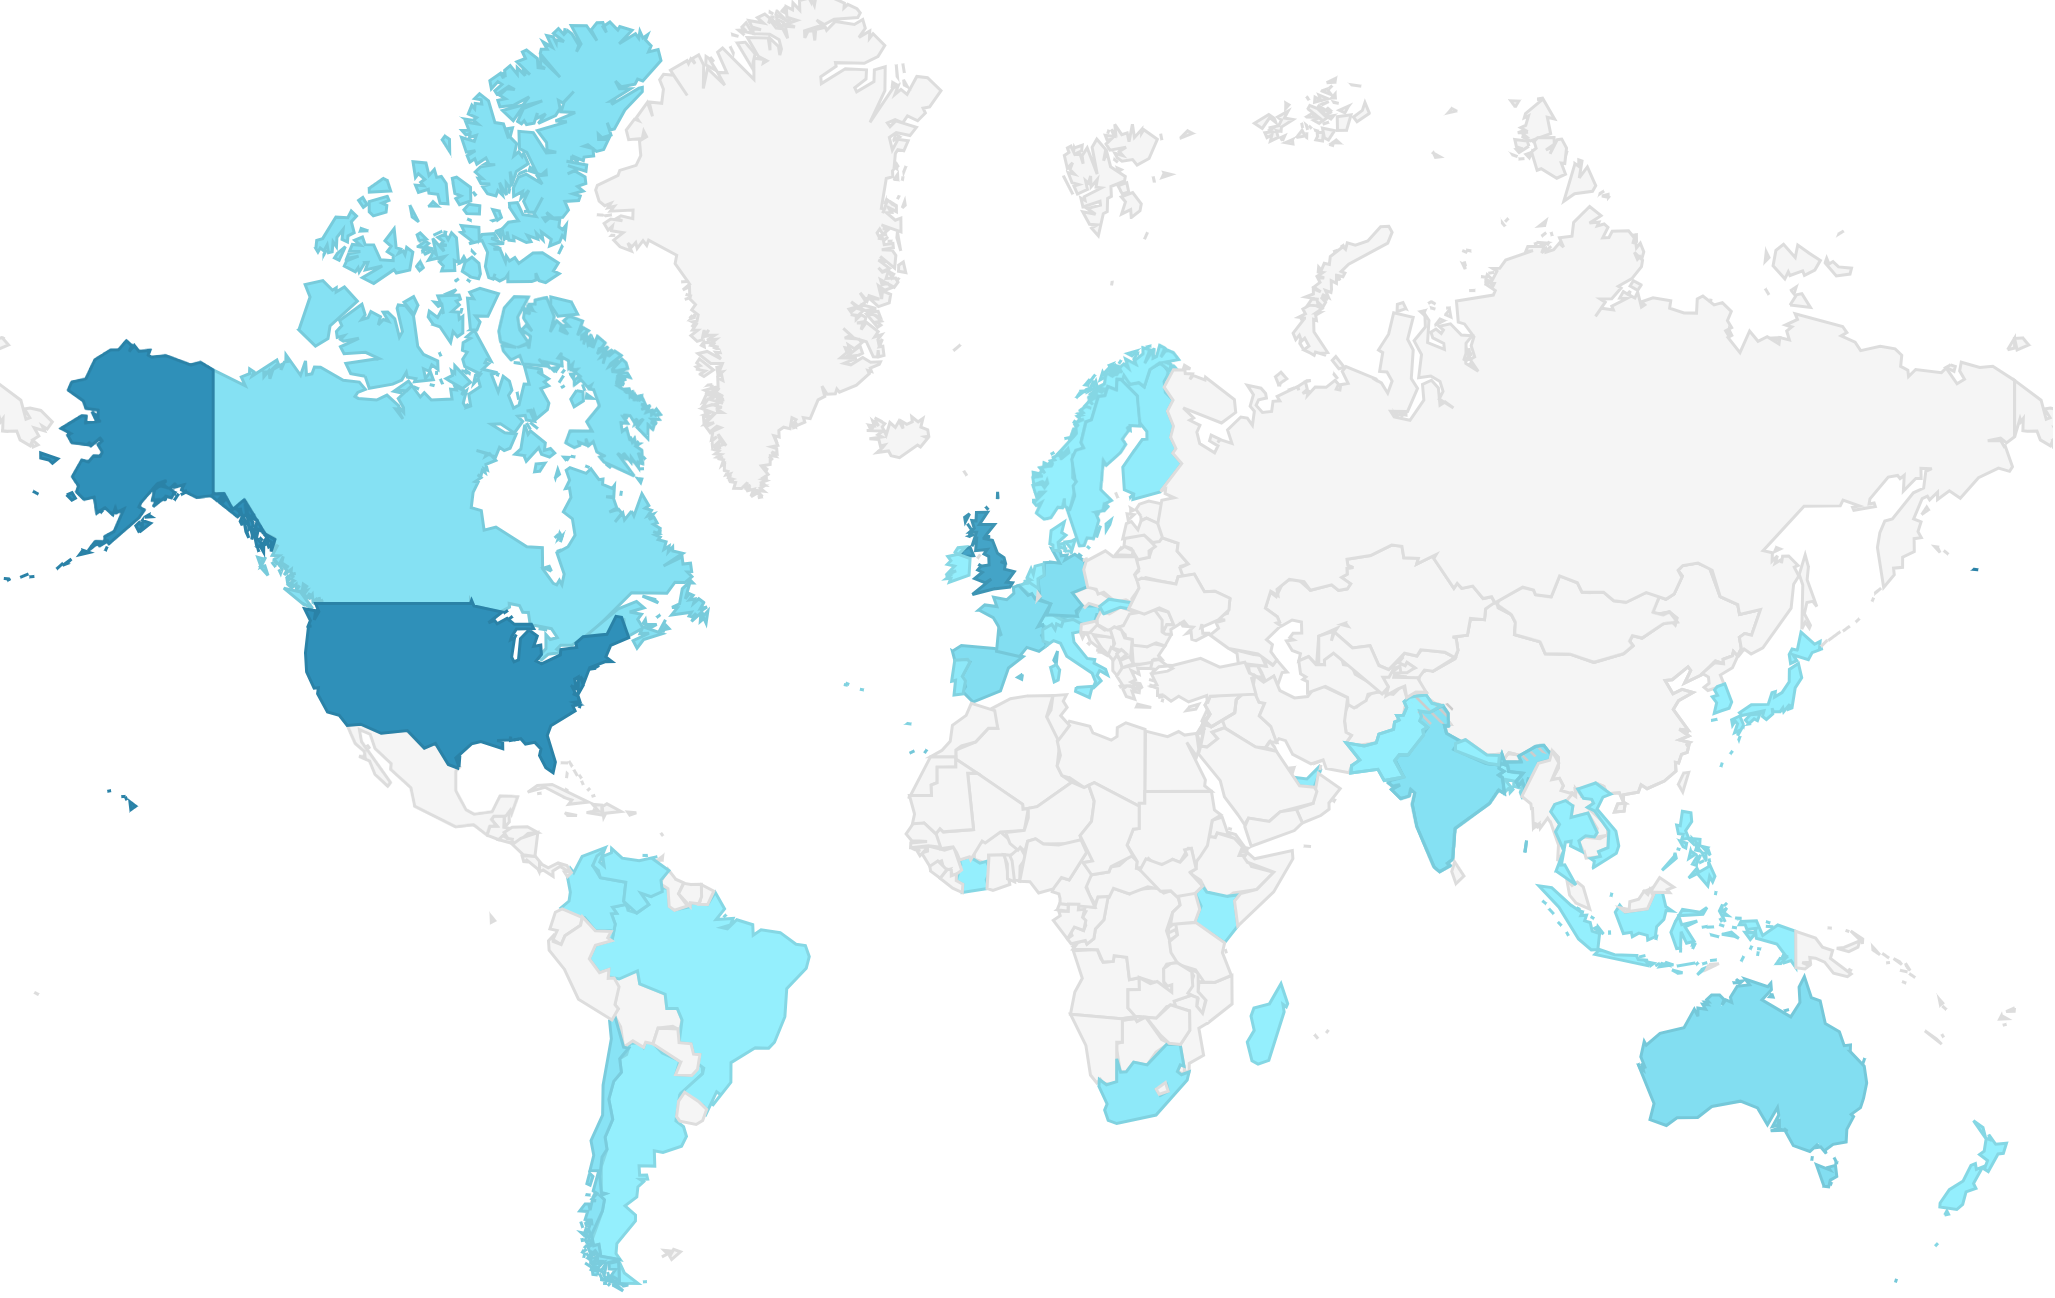
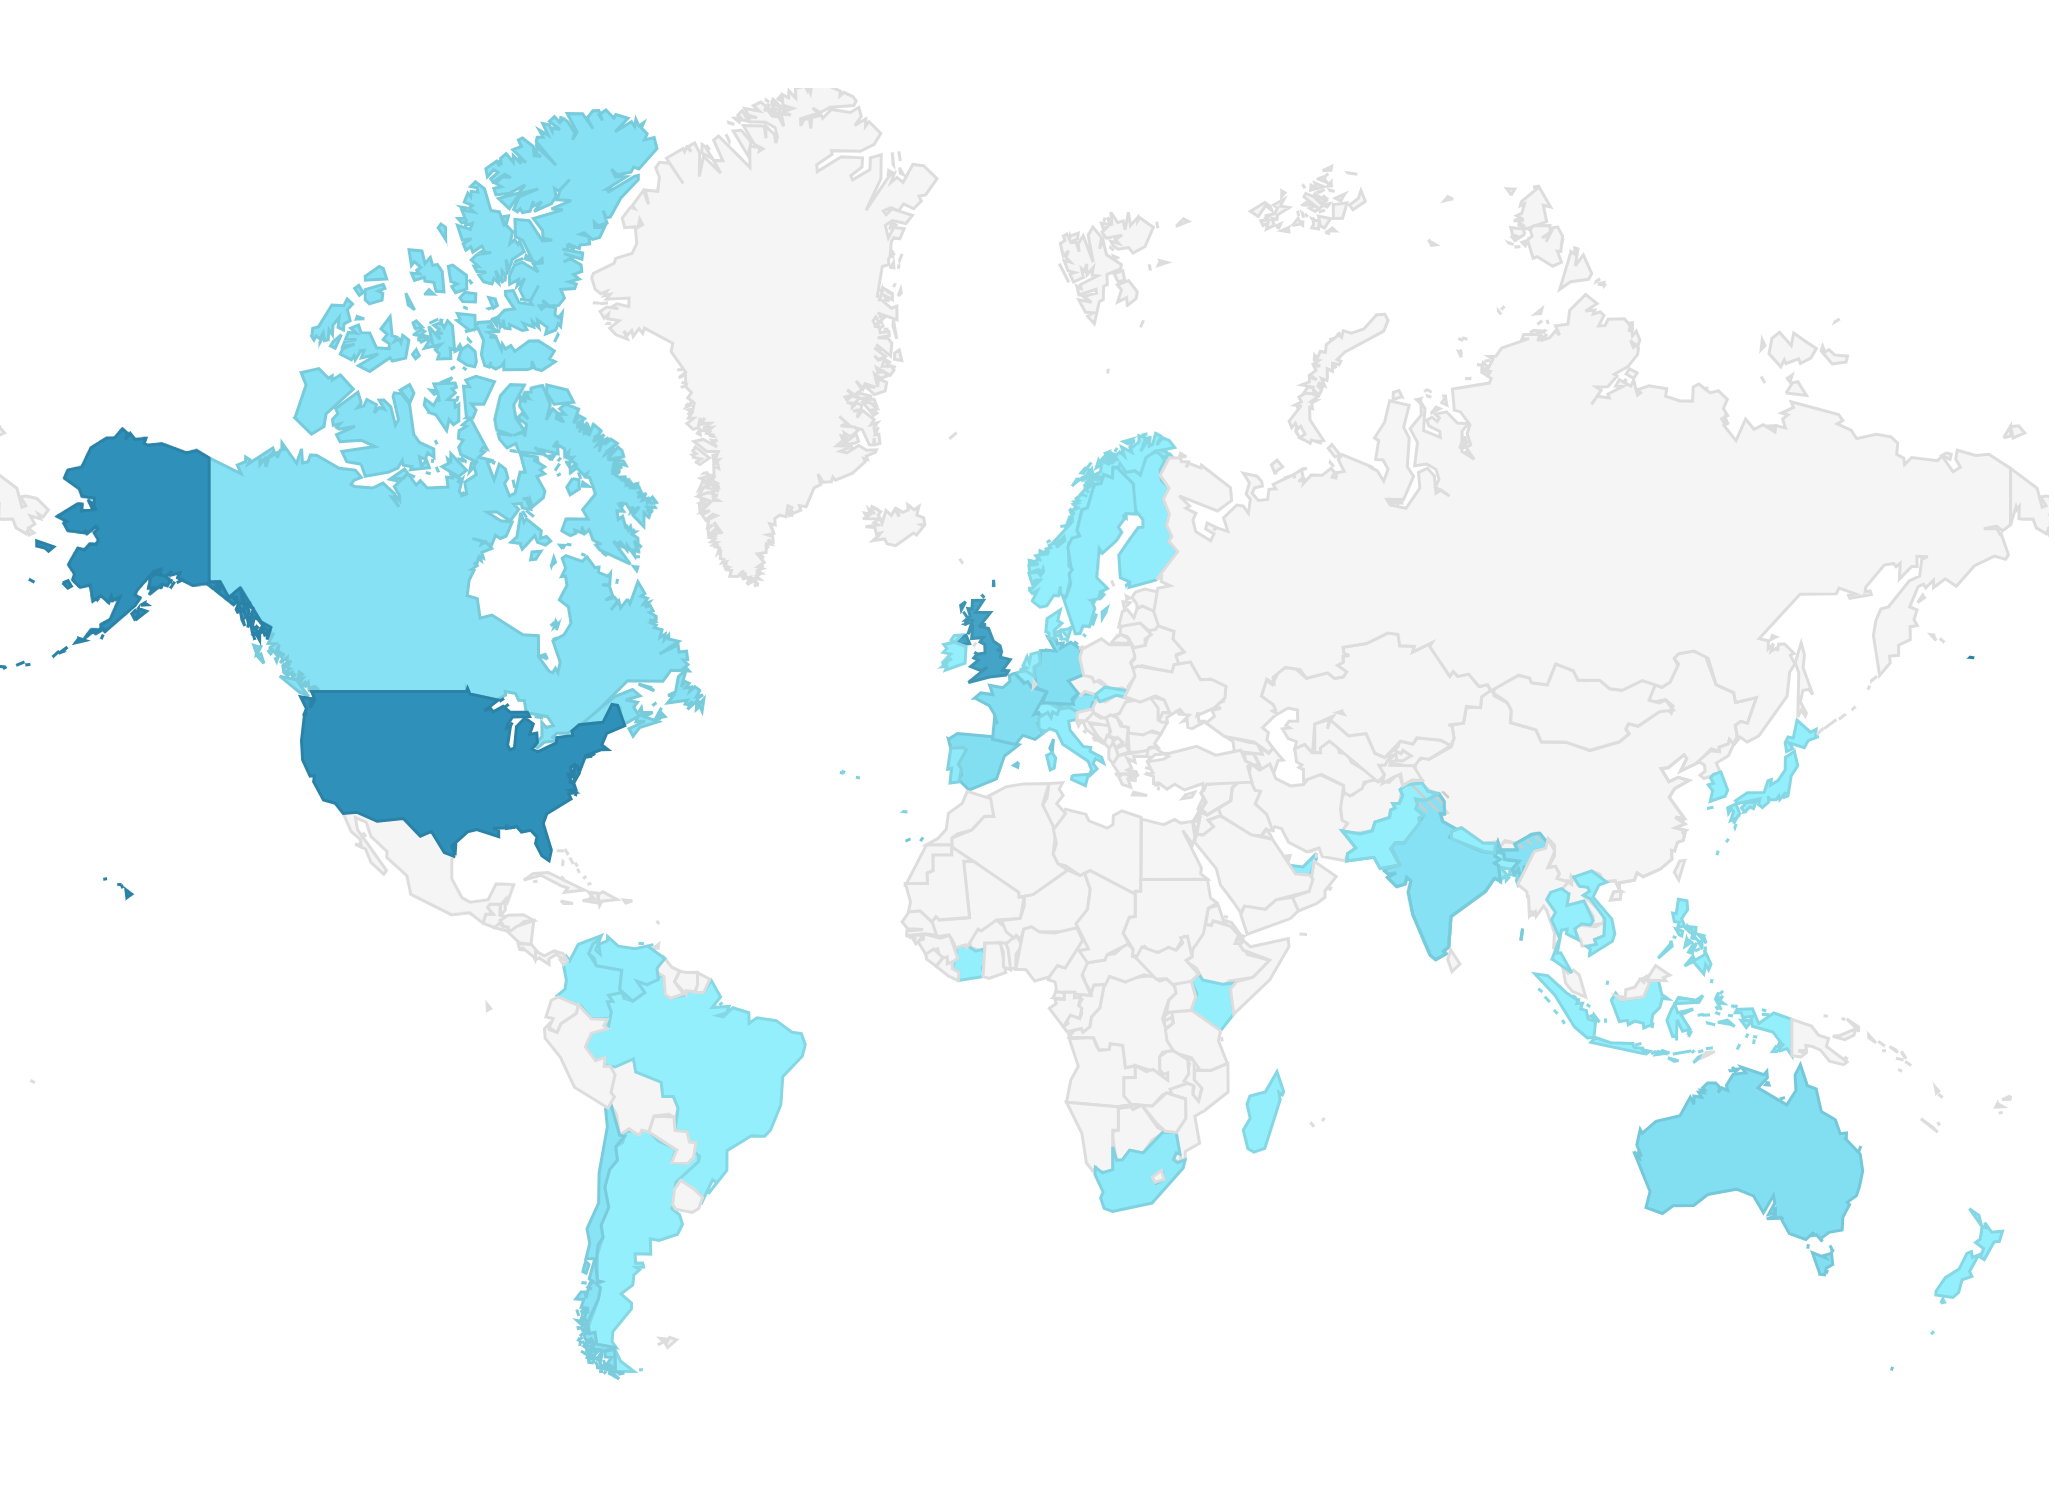
Revised slides

diff --git a/assets/talks/20240627-nsfc/index.html b/assets/talks/20240627-nsfc/index.html
@@ -35,7 +35,7 @@ class: top, left, title-slide
   .bg_map::before {    
         content: "";
         background-image: url('./img/outreach.png');
-        background-size: contain;
+        background-size: cover;
         position: absolute;
         top: 0px;
         right: 0px;
@@ -228,14 +228,19 @@ class: title, no-number
 # Summary
 .lut-illustration[].copyright-bottom-right.font60[June 27&lt;sup&gt;th&lt;/sup&gt;, 2024]
 
-- **PI has demonstrated independent, high-quality research and international influence**
-- **Addresses urgent need for global spatial mining data**
-- **Proposes an innovative approach**
-- **High gains, low risk due to extensive experience of PI and CUMT researchers**
+- .font90[**PI demonstrated** independent, high-quality research and international influence]
+- .font90[**Project addresses the urgent need** for spatial data on global mining regions]
+- .font90[**Innovative synthesis** combining multimodal imagery and large AI training datasets]
+- .font90[**High gains and low risk** due to the extensive experience of PI and CUMT researchers]
 
+&lt;br&gt;
 .pull-left.left[
-Dr Victor Maus&lt;br&gt;.font90[Institute for Ecological Economics&lt;br&gt;Vienna University of Economics and Business]&lt;br&gt;.font90[victor.maus@wu.ac.at]&lt;br&gt;.font90[&lt;a href='https://vwmaus.github.io'&gt;vwmaus.github.io&lt;/a&gt;]&lt;br&gt;
-&lt;img src="./../img/qrcode_www.victor-maus.com.png" height="190"/&gt;
+**Dr Victor Wegner Maus**
+.font70[Institute for Ecological Economics&lt;br&gt;
+  &lt;span style='display:block; margin-top:-2px;'&gt;Vienna University of Economics and Business&lt;/span&gt;&lt;br&gt;
+  &lt;span style='display:block; margin-top:-22px;'&gt;victor.maus@wu.ac.at&lt;/span&gt;&lt;br&gt;
+  &lt;span style='display:block; margin-top:-22px;'&gt;&lt;a href='https://vwmaus.github.io'&gt;vwmaus.github.io&lt;/a&gt;&lt;br&gt;]&lt;/span&gt;
+  &lt;img src="./../img/qrcode_www.victor-maus.com.png" height="190"/&gt;
 ]
     </textarea>
 <style data-target="print-only">@media screen {.remark-slide-container{display:block;}.remark-slide-scaler{box-shadow:none;}}</style>

diff --git a/assets/talks/20240627-nsfc/libs/huw.css b/assets/talks/20240627-nsfc/libs/huw.css
@@ -111,7 +111,7 @@ remark-slide-number, .title-slide {
 }
 
 .title-slide::after {
-  content: "Dr. Victor Wegner Maus";
+  content: "Dr Victor Wegner Maus";
   font-weight: bold;
   color: #1A292C;
   font-size: 20pt;

diff --git a/assets/talks/20240627-nsfc/libs/my.css b/assets/talks/20240627-nsfc/libs/my.css
@@ -93,7 +93,7 @@ content: "";
 }
 
 .pi-photo-huw:after {
-    content: "Dr. Victor Wegner Maus";
+    content: "Dr Victor Wegner Maus";
     font-size: 70%;
     align-content: center;
     position: absolute;
